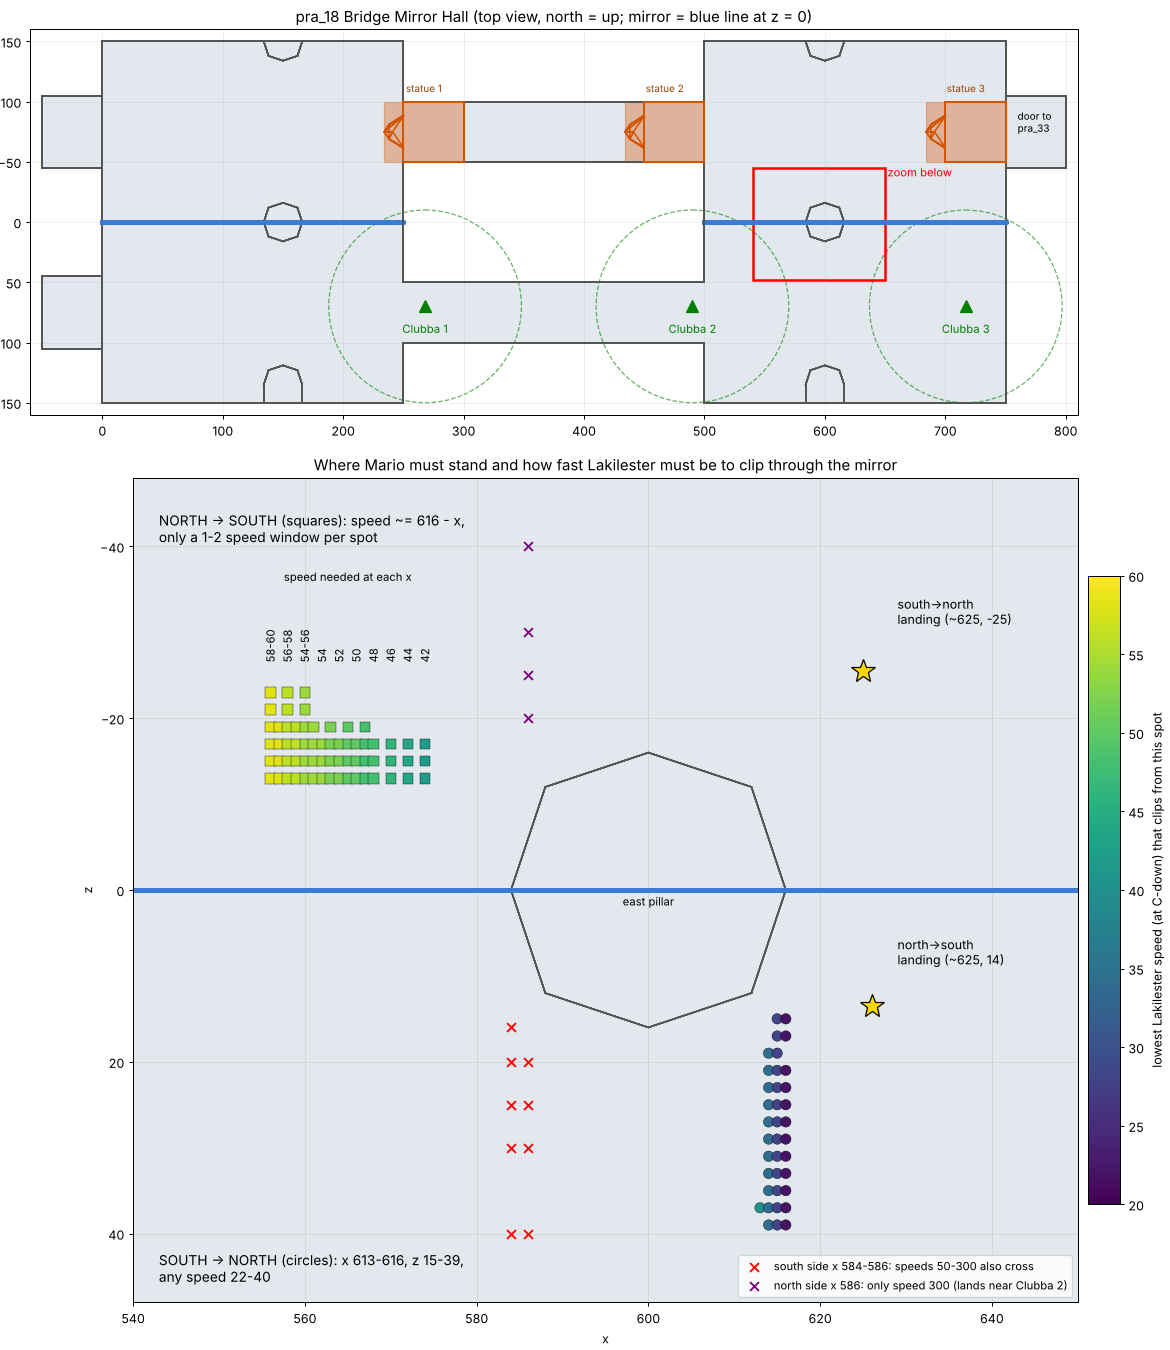
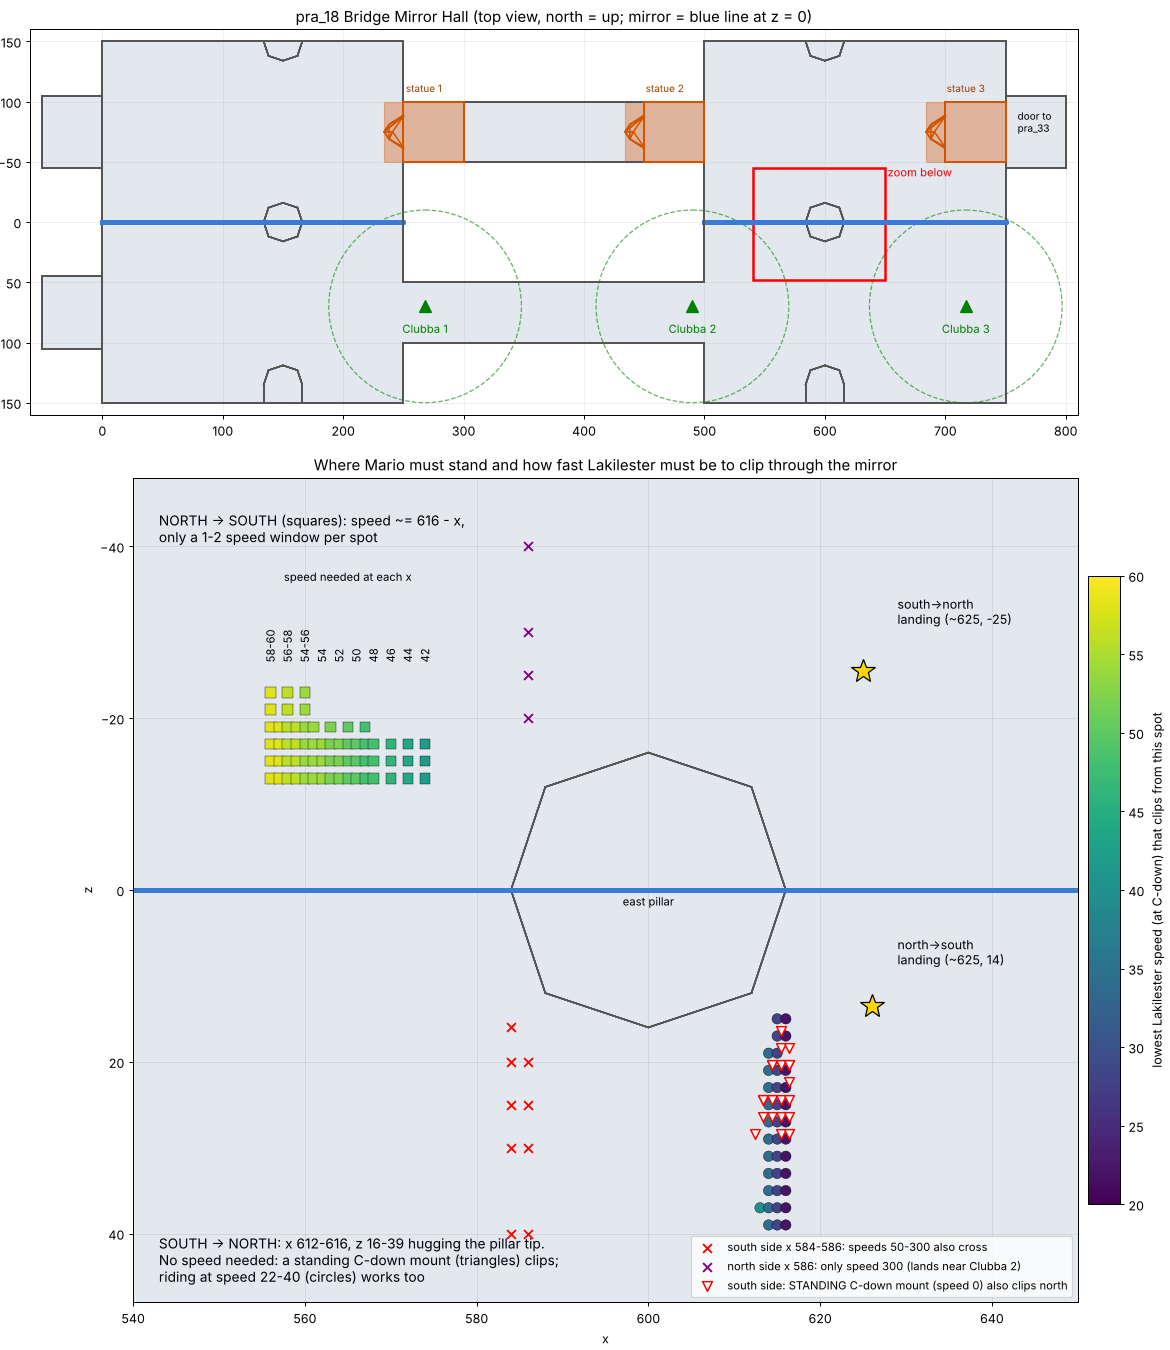
pra_18: brute force v2 results; south->north mirror clip works from a standing C-down mount
Claude-Session: https://claude.ai/code/session_01PAYGgAFM6inphVCTM8p258

Changed region(s): [[0.1231, 0.9022, 0.4615, 0.9644], [0.5846, 0.9022, 0.8923, 0.9644], [0.6462, 0.7467, 0.6769, 0.84]]

diff --git a/pm-kooper-bot/pra18_brute2.py b/pm-kooper-bot/pra18_brute2.py
@@ -1,0 +1,67 @@
+"""Brute force the pra_18 mirror clips, v2. DIAGNOSTIC SETUP: Mario placed at START; LAKI=x,z optionally places
+Lakilester. Episode = random 'speed building' phase (random stick segments, stops, Z spins; R steps) then Mario is
+steered straight at a random target inside the clip zone; on every step inside the zone the state is saved and C-down
+is tried (that step and 1-3 steps later). Success = riding on the other side of the mirror.
+usage: pra18_brute2.py MODE SEED EPISODES OUT.jsonl"""
+import os, sys, json, random, math
+from emu import *
+from pm import *
+from nav import stick_world, world_yaw_to
+mode, seed, EP, out = sys.argv[1], int(sys.argv[2]), int(sys.argv[3]), sys.argv[4]
+rng = random.Random(seed)
+e = Emu('pm-jp.z64', '/dev/shm/pmbot/b2%d' % os.getpid())
+if mode == 'N':
+    START = (560, -80); ZONE = (552, 578, -24, -11); crossed = lambda p: p['z'] > 0
+else:
+    START = tuple(int(v) for v in os.environ.get('START', '660,60').split(',')); ZONE = (610, 618, 13, 41); crossed = lambda p: p['z'] < 0
+def laki():
+    for n in npcs(e):
+        if n['id'] == -4: return n
+e.load('states/pra18_e2.st'); e.step(0, 0, 0, 2)
+e.wf32(PLAYER + PS_POS, float(START[0])); e.wf32(PLAYER + PS_POS + 8, float(START[1]))     # DIAGNOSTIC
+lx, lz = (float(v) for v in os.environ.get('LAKI', '%d,%d' % (START[0] - 40, START[1])).split(','))
+l = laki(); e.wf32(l['addr'] + 0x38, lx); e.wf32(l['addr'] + 0x40, lz)                       # DIAGNOSTIC
+for i in range(30): e.step(0, 0, 0, 2)
+base = '/dev/shm/pmbot/b2%d_base.st' % os.getpid(); e.save(base)
+cand = '/dev/shm/pmbot/b2%d_cand.st' % os.getpid()
+fo = open(out, 'a'); st = {'tries': 0, 'succ': 0, 'maxspeed_zone': 0.0}
+inzone = lambda p: ZONE[0] <= p['x'] <= ZONE[1] and ZONE[2] <= p['z'] <= ZONE[3]
+for ep in range(EP):
+    e.load(base); inputs = []
+    R = rng.randint(0, 90)
+    while len(inputs) < R:
+        if rng.random() < 0.2: b, sx, sy, d = 0, 0, 0, rng.randint(1, 8)
+        else:
+            a = rng.uniform(0, 2 * math.pi); m = rng.choice((30, 55, 80))
+            b, sx, sy, d = (Z if rng.random() < 0.1 else 0), int(m * math.cos(a)), int(m * math.sin(a)), rng.randint(1, 10)
+        for k in range(d):
+            e.step(b if k == 0 else 0, sx, sy, 2); inputs.append((b if k == 0 else 0, sx, sy))
+    tx, tz = rng.uniform(ZONE[0], ZONE[1]), rng.uniform(ZONE[2], ZONE[3])
+    mag = rng.choice((30, 55, 80))
+    done = False
+    for k in range(120):
+        p = player(e)
+        if inzone(p):
+            l = laki(); s = e.f32(l['addr'] + 0x18) if l else 0
+            st['maxspeed_zone'] = max(st['maxspeed_zone'], s)
+            e.save(cand)
+            for extra in (0, 1, 2, 3):
+                e.load(cand)
+                for j in range(extra): e.step(0, 0, 0, 2)
+                e.step(D_CBUTTON, 0, 0, 2)
+                for i in range(35): e.step(0, 0, 0, 2)
+                q = player(e); st['tries'] += 1
+                if crossed(q) and q['action'] == 33:
+                    st['succ'] += 1
+                    rec = {'mode': mode, 'seed': seed, 'ep': ep, 'mario': [round(p['x'], 2), round(p['z'], 2)], 'laki_speed': round(s, 2),
+                           'extra_wait': extra, 'end': [round(q['x'], 1), round(q['z'], 1)], 'inputs': inputs[:]}
+                    fo.write(json.dumps(rec) + '\n'); fo.flush()
+                    print('SUCCESS', rec['mode'], 'ep', ep, 'mario', rec['mario'], 'speed', rec['laki_speed'], 'wait', extra, '->', rec['end'], flush=True)
+                    done = True; break
+            e.load(cand)
+            if done: break
+        sx, sy = stick_world(e, world_yaw_to(p, tx, tz), mag) if math.hypot(p['x'] - tx, p['z'] - tz) > 1.5 else (0, 0)
+        e.step(0, sx, sy, 2); inputs.append((0, sx, sy))
+        if math.hypot(p['x'] - tx, p['z'] - tz) <= 1.5 and k > 5 and not inzone(p): break
+    if ep % 25 == 0: print('ep', ep, st, flush=True)
+print('final', st, flush=True)

diff --git a/pm-kooper-bot/pra18_replay_s.py b/pm-kooper-bot/pra18_replay_s.py
@@ -1,0 +1,29 @@
+"""Replay the brute2 S success and a 'stand still then C-down' control. Same DIAGNOSTIC setup as pra18_brute2.py."""
+import json, os, sys
+from emu import *
+from pm import *
+e = Emu('pm-jp.z64', '/dev/shm/pmbot/rp%d' % os.getpid())
+def laki():
+    for n in npcs(e):
+        if n['id'] == -4: return n
+e.load('states/pra18_e2.st'); e.step(0, 0, 0, 2)
+e.wf32(PLAYER + PS_POS, 630.0); e.wf32(PLAYER + PS_POS + 8, 30.0)     # DIAGNOSTIC
+l = laki(); e.wf32(l['addr'] + 0x38, 650.0); e.wf32(l['addr'] + 0x40, 40.0)  # DIAGNOSTIC
+for i in range(30): e.step(0, 0, 0, 2)
+base = '/dev/shm/pmbot/rp%d_base.st' % os.getpid(); e.save(base)
+rec = json.loads(open('/tmp/claude-0/pm/p18/brute2_S2.jsonl').readline())
+for b, sx, sy in rec['inputs']: e.step(b, sx, sy, 2)
+p = player(e); print('after inputs', round(p['x'], 2), round(p['z'], 2), 'action', p['action'], 'laki speed', round(e.f32(laki()['addr'] + 0x18), 2))
+for j in range(rec['extra_wait']): e.step(0, 0, 0, 2)
+e.step(D_CBUTTON, 0, 0, 2)
+for i in range(35):
+    e.step(0, 0, 0, 2); q = player(e)
+    if i % 5 == 0 or i == 34: print(' f%d' % i, round(q['x'], 1), round(q['y'], 1), round(q['z'], 1), 'action', q['action'])
+e.load(base)
+for b, sx, sy in rec['inputs']: e.step(b, sx, sy, 2)
+for j in range(rec['extra_wait']): e.step(0, 0, 0, 2)
+L = laki(); print('laki before C-down', round(e.f32(L['addr'] + 0x38), 1), round(e.f32(L['addr'] + 0x3C), 1), round(e.f32(L['addr'] + 0x40), 1))
+e.step(D_CBUTTON, 0, 0, 2)
+for i in range(20):
+    e.step(0, 0, 0, 2); L = laki(); q = player(e)
+    print(' f%d mario' % i, round(q['x'], 1), round(q['z'], 1), 'laki', round(e.f32(L['addr'] + 0x38), 1), round(e.f32(L['addr'] + 0x40), 1))

diff --git a/pm-kooper-bot/pra18_foot_mount.py b/pm-kooper-bot/pra18_foot_mount.py
@@ -1,0 +1,32 @@
+"""Does a plain C-down mount from standing clip through the mirror? DIAGNOSTIC: Mario is placed on foot at each spot,
+Lakilester placed APPROACH units away (direction given), 40 idle steps to settle, then C-down; success = riding on the other side."""
+import os, sys, json, math
+from emu import *
+from pm import *
+side = sys.argv[1]
+e = Emu('pm-jp.z64', '/dev/shm/pmbot/fm%d' % os.getpid())
+def laki():
+    for n in npcs(e):
+        if n['id'] == -4: return n
+e.load('states/pra18_e2.st'); e.step(0, 0, 0, 2)
+base = '/dev/shm/pmbot/fm%d_base.st' % os.getpid(); e.save(base)
+if side == 'S': xs, zs, cross = range(604, 624), range(14, 44, 2), (lambda q: q['z'] < 0)
+else: xs, zs, cross = range(560, 640, 2), range(-44, -10, 2), (lambda q: q['z'] > 0)
+res = []
+for x in xs:
+    for z in zs:
+        for ang in range(0, 360, 45):
+            e.load(base)
+            e.wf32(PLAYER + PS_POS, float(x)); e.wf32(PLAYER + PS_POS + 8, float(z))                       # DIAGNOSTIC
+            L = laki(); a = math.radians(ang)
+            e.wf32(L['addr'] + 0x38, x + 30 * math.cos(a)); e.wf32(L['addr'] + 0x40, z + 30 * math.sin(a))   # DIAGNOSTIC
+            for i in range(40): e.step(0, 0, 0, 2)
+            p = player(e)
+            if abs(p['x'] - x) > 1 or abs(p['z'] - z) > 1: continue
+            e.step(D_CBUTTON, 0, 0, 2)
+            for i in range(40): e.step(0, 0, 0, 2)
+            q = player(e)
+            if q['action'] == 33 and cross(q): res.append([x, z, ang, round(q['x'], 1), round(q['z'], 1)])
+    print(x, len(res), flush=True)
+json.dump(res, open('/tmp/claude-0/pm/p18/foot_%s.json' % side, 'w'))
+print('done', len(res))

diff --git a/pm-kooper-bot/pra18_speed_fig.py b/pm-kooper-bot/pra18_speed_fig.py
@@ -42,10 +42,12 @@ ax.scatter([k[0] for k in spotS], [k[1] for k in spotS], c=[min(v) for v in spot
 hiS = {(x, z) for x, z, S, _, ex, ez in cs if x <= 590}
 ax.scatter([k[0] for k in hiS], [k[1] for k in hiS], marker='x', c='red', s=50, zorder=5, label='south side x 584-586: speeds 50-300 also cross')
 ax.scatter([586] * 4, [-20, -25, -30, -40], marker='x', c='purple', s=50, zorder=5, label='north side x 586: only speed 300 (lands near Clubba 2)')
+ft = json.load(open(P + 'foot_S.json'))
+ax.scatter([r[0] + .4 for r in ft], [r[1] + .4 for r in ft], marker='v', s=60, c='white', edgecolors='red', linewidths=1.2, zorder=7, label='south side: STANDING C-down mount (speed 0) also clips north')
 ax.plot(626, 13.5, marker='*', ms=20, color='gold', mec='k', zorder=6); ax.text(629, 9, 'north->south\nlanding (~625, 14)', fontsize=10, va='bottom')
 ax.plot(625, -25.5, marker='*', ms=20, color='gold', mec='k', zorder=6); ax.text(629, -31, 'south->north\nlanding (~625, -25)', fontsize=10)
 ax.text(543, -44, 'NORTH -> SOUTH (squares): speed ~= 616 - x,\nonly a 1-2 speed window per spot', fontsize=11, va='top')
-ax.text(543, 46, 'SOUTH -> NORTH (circles): x 613-616, z 15-39,\nany speed 22-40', fontsize=11, va='bottom')
+ax.text(543, 46, 'SOUTH -> NORTH: x 612-616, z 16-39 hugging the pillar tip.\nNo speed needed: a standing C-down mount (triangles) clips;\nriding at speed 22-40 (circles) works too', fontsize=11, va='bottom')
 ax.text(600, 1.8, 'east pillar', ha='center', fontsize=9)
 ax.set_xlim(540, 650); ax.set_ylim(48, -48); ax.set_aspect('equal'); ax.grid(alpha=.3)
 ax.set_xlabel('x'); ax.set_ylabel('z'); ax.legend(loc='lower right', fontsize=9)
